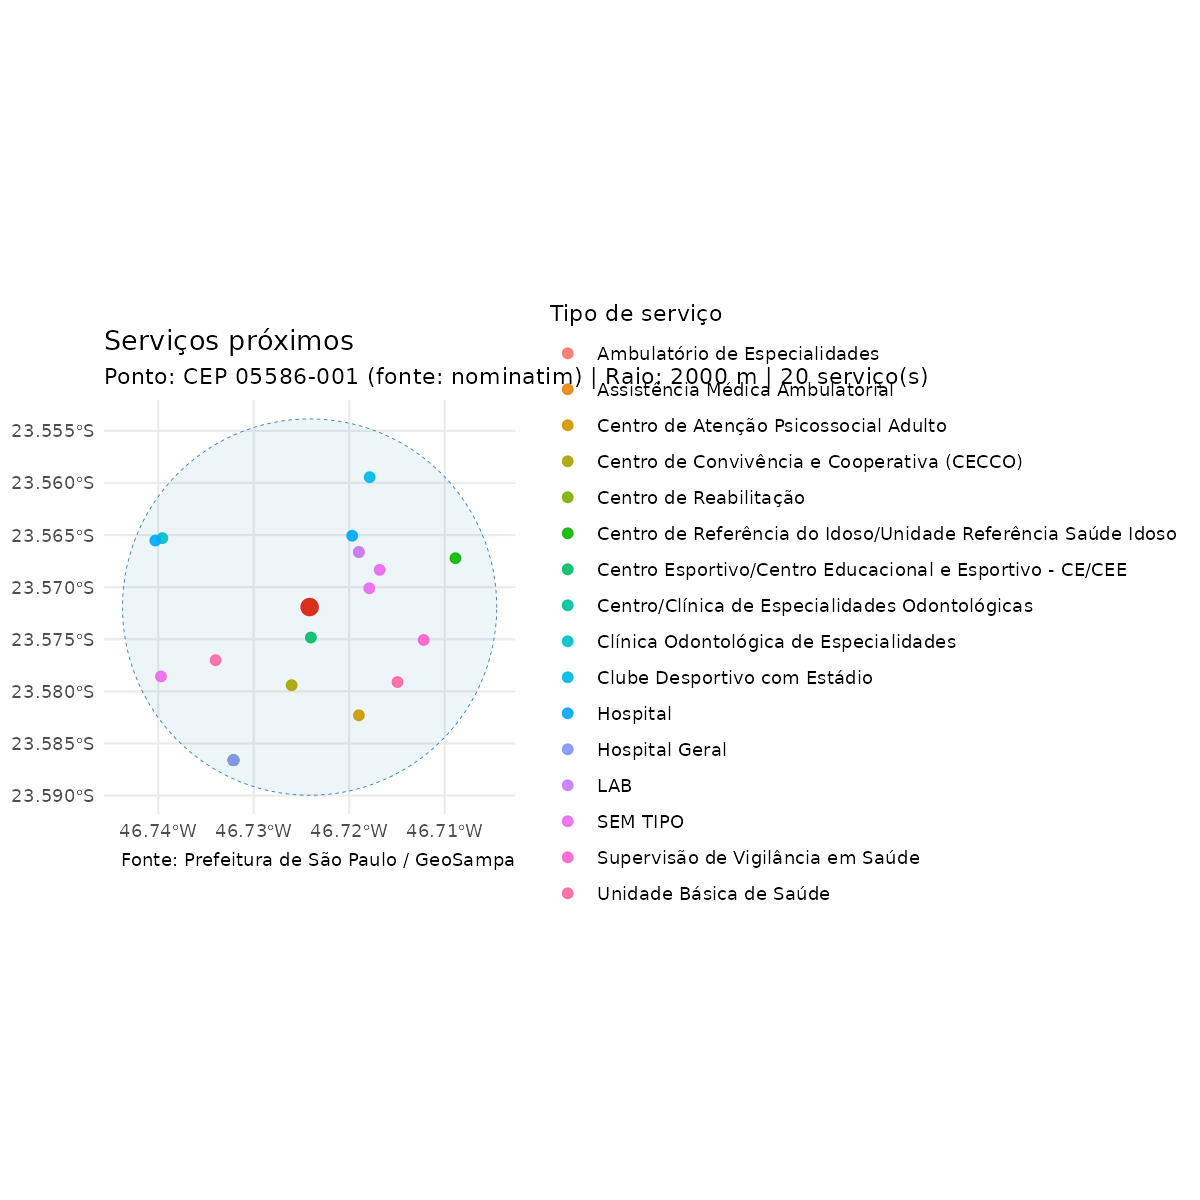
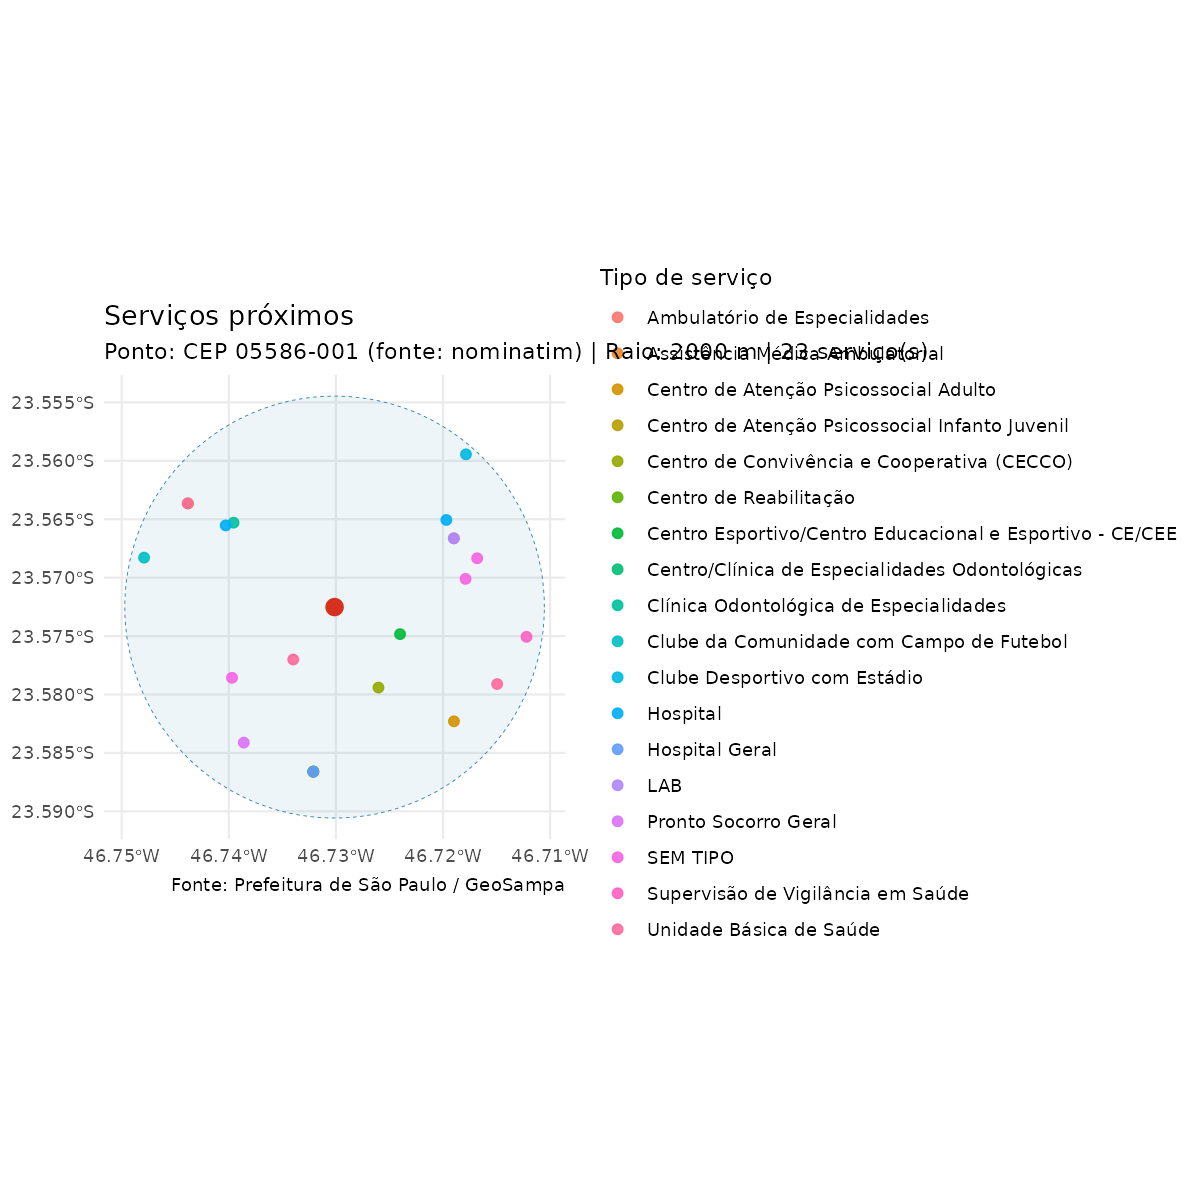
chore(geosampa): regenerar mapa de exemplo do CEP 05586001

diff --git a/R/geosampa/mapas/cep_05586001.html b/R/geosampa/mapas/cep_05586001.html
@@ -4071,9 +4071,9 @@ function asArray(value) {
 </head>
 <body style="background-color: white;">
 <div id="htmlwidget_container">
-  <div class="leaflet html-widget html-fill-item" id="htmlwidget-3da7fdd1f20a09d2bc69" style="width:100%;height:400px;"></div>
+  <div class="leaflet html-widget html-fill-item" id="htmlwidget-841b6dee16171f6e514d" style="width:100%;height:400px;"></div>
 </div>
-<script type="application/json" data-for="htmlwidget-3da7fdd1f20a09d2bc69">{"x":{"options":{"crs":{"crsClass":"L.CRS.EPSG3857","code":null,"proj4def":null,"projectedBounds":null,"options":{}}},"calls":[{"method":"addTiles","args":["https://{s}.tile.openstreetmap.org/{z}/{x}/{y}.png",null,null,{"minZoom":0,"maxZoom":18,"tileSize":256,"subdomains":"abc","errorTileUrl":"","tms":false,"noWrap":false,"zoomOffset":0,"zoomReverse":false,"opacity":1,"zIndex":1,"detectRetina":false,"attribution":"&copy; <a href=\"https://openstreetmap.org/copyright/\">OpenStreetMap<\/a>,  <a href=\"https://opendatacommons.org/licenses/odbl/\">ODbL<\/a>"}]},{"method":"addCircles","args":[-23.5719106,-46.7241413,2000,null,null,{"interactive":true,"className":"","stroke":true,"color":"#2c7fb8","weight":1,"opacity":0.6,"fill":true,"fillColor":"#2c7fb8","fillOpacity":0.08,"dashArray":"4 4"},null,null,null,{"interactive":false,"permanent":false,"direction":"auto","opacity":1,"offset":[0,0],"textsize":"10px","textOnly":false,"className":"","sticky":true},null,null]},{"method":"addCircleMarkers","args":[-23.5719106,-46.7241413,8,null,null,{"interactive":true,"className":"","stroke":true,"color":"#d7301f","weight":5,"opacity":0.5,"fill":true,"fillColor":"#d7301f","fillOpacity":0.9},null,null,"<b>Ponto de interesse<\/b><br>CEP 05586-001 (fonte: nominatim)",null,null,{"interactive":false,"permanent":false,"direction":"auto","opacity":1,"offset":[0,0],"textsize":"10px","textOnly":false,"className":"","sticky":true},null]},{"method":"addCircleMarkers","args":[[-23.5666329321213,-23.56722099583262,-23.56529499932454,-23.58659999899738,-23.58659999899738,-23.58659999899738,-23.56506199561935,-23.56552799921556,-23.58659999899738,-23.5666329321213,-23.57856990581364,-23.57010599870335,-23.5794069959869,-23.58229499925726,-23.56833900389085,-23.57700399848673,-23.57910499867152,-23.57506500394039,-23.57483226719375,-23.55944580967952],[-46.7189913849091,-46.70887300089504,-46.73955900087741,-46.73211199717158,-46.73211199717158,-46.73211199717158,-46.71968800136815,-46.74029300294579,-46.73211199717158,-46.7189913849091,-46.73970279107262,-46.71789399626643,-46.72602599797511,-46.71898100013409,-46.71680900472708,-46.73398899924604,-46.71494400461886,-46.71220300098749,-46.72401208992395,-46.71785602686937],5,null,null,{"interactive":true,"className":"","stroke":true,"color":["#ED90A4","#8BB860","#00C1B2","#E69786","#28C196","#ABB150","#48B8DE","#48B8DE","#80AEEA","#ACA2EC","#CC97E5","#CC97E5","#C4A955","#D8A06A","#CC97E5","#EC8DBF","#EC8DBF","#E190D6","#62BE79","#00BECB"],"weight":5,"opacity":0.5,"fill":true,"fillColor":["#ED90A4","#8BB860","#00C1B2","#E69786","#28C196","#ABB150","#48B8DE","#48B8DE","#80AEEA","#ACA2EC","#CC97E5","#CC97E5","#C4A955","#D8A06A","#CC97E5","#EC8DBF","#EC8DBF","#E190D6","#62BE79","#00BECB"],"fillOpacity":0.8},null,null,["<b>AMBULATORIO MEDICO DO INSTITUTO BUTANTAN<\/b><br>Tipo: Ambulatório de Especialidades<br>Endereço: AV. VITAL BRASIL, 1500<br>Bairro: BUTANTÃ<br>Distância: 787 m<br>Camada: equipamento_saude_ambulatorios_especializados","<b>URSI BUTANTÃ<\/b><br>Tipo: Centro de Referência do Idoso/Unidade Referência Saúde Idoso<br>Endereço: AV. AFRANIO PEIXOTO, 424<br>Bairro: BUTANTA<br>Distância: 1641 m<br>Camada: equipamento_saude_ambulatorios_especializados","<b>FACULDADE DE ODONTOLOGIA - USP (CLINICA ODONTOLÓGICA)<\/b><br>Tipo: Clínica Odontológica de Especialidades<br>Endereço: AV. PROF. LINEU PRESTES, 2227<br>Bairro: CIDUNIVERSITARIA<br>Distância: 1735 m<br>Camada: equipamento_saude_ambulatorios_especializados","<b>AMA 12H JARDIM PERI PERI<\/b><br>Tipo: Assistência Médica Ambulatorial<br>Endereço: R. JOÃO GUERRA, 247<br>Bairro: JD PERI PERI<br>Distância: 1824 m<br>Camada: equipamento_saude_ambulatorios_especializados","<b>CEO II BUTANTÃ<\/b><br>Tipo: Centro/Clínica de Especialidades Odontológicas<br>Endereço: R. JOÃO GUERRA, 247<br>Bairro: JD PERI PERI<br>Distância: 1824 m<br>Camada: equipamento_saude_ambulatorios_especializados","<b>CER II BUTANTÃ<\/b><br>Tipo: Centro de Reabilitação<br>Endereço: R. JOÃO GUERRA, 247<br>Bairro: JARDIM PERI<br>Distância: 1824 m<br>Camada: equipamento_saude_ambulatorios_especializados","<b>HOSPITAL ESTADUAL VITAL BRAZIL<\/b><br>Tipo: Hospital<br>Endereço: AV. VITAL BRAZIL, 1500<br>Bairro: BUTANTA<br>Distância: 886 m<br>Camada: equipamento_saude_hospital","<b>HOSPITAL UNIVERSITARIO - HU/USP<\/b><br>Tipo: Hospital<br>Endereço: AV. PROF. LINEU PRESTES, 2565<br>Bairro: BUTANTA<br>Distância: 1793 m<br>Camada: equipamento_saude_hospital","<b>HOSPITAL DIA - BUTANTÃ<\/b><br>Tipo: Hospital Geral<br>Endereço: R. JOÃO GUERRA, 247<br>Bairro: JD PERI PERI<br>Distância: 1824 m<br>Camada: equipamento_saude_hospital","<b>LABORATORIO DE ANALISES CLINICAS DO INSTITUTO BUTANTAN<\/b><br>Tipo: LAB<br>Endereço: AV. DR VITAL BRASIL, 1500<br>Bairro: BUTANTA<br>Distância: 787 m<br>Camada: equipamento_saude_outros","<b>SUPERVISÃO TECNICA DE SAÚDE - BUTANTÃ<\/b><br>Tipo: SEM TIPO<br>Endereço: AV. COMENDADOR ALBERTO BONFIGLIOLI, 658<br>Bairro: JARDIM BONFIGLIOLI<br>Distância: 1750 m<br>Camada: equipamento_saude_outros","<b>PONTO DE ECONOMIA SOLIDARIA E CULTURA DO BUTANTA<\/b><br>Tipo: SEM TIPO<br>Endereço: AV. CORIFEU DE AZEVEDO MARQUES, 250<br>Bairro: BUTANTÃ<br>Distância: 668 m<br>Camada: equipamento_saude_saude_mental","<b>CECCO PREVIDÊNCIA<\/b><br>Tipo: Centro de Convivência e Cooperativa (CECCO)<br>Endereço: R. PEDRO PECCININI, 88<br>Bairro: JD PREVIDÊNCIA<br>Distância: 855 m<br>Camada: equipamento_saude_saude_mental","<b>CAPS ADULTO II BUTANTA<\/b><br>Tipo: Centro de Atenção Psicossocial Adulto<br>Endereço: R. OSCAR PINHEIRO COELHO, 287<br>Bairro: CAXINGUI<br>Distância: 1269 m<br>Camada: equipamento_saude_saude_mental","<b>CS ESCOLA SAMUEL BARNSLEY PESSOA<\/b><br>Tipo: SEM TIPO<br>Endereço: AV. VITAL BRASIL, 1490<br>Bairro: BUTANTA<br>Distância: 846 m<br>Camada: equipamento_saude_ubs_posto_centro","<b>UBS BUTANTÃ<\/b><br>Tipo: Unidade Básica de Saúde<br>Endereço: R. CABRAL DE MENEZES, 51<br>Bairro: VL GOMES<br>Distância: 1152 m<br>Camada: equipamento_saude_ubs_posto_centro","<b>UBS CAXINGUI - NANCI ABRANCHES<\/b><br>Tipo: Unidade Básica de Saúde<br>Endereço: R. LADISLAU ROMAN, 410<br>Bairro: CAXINGUI<br>Distância: 1232 m<br>Camada: equipamento_saude_ubs_posto_centro","<b>UVIS BUTANTÃ<\/b><br>Tipo: Supervisão de Vigilância em Saúde<br>Endereço: AV. CAXINGUI, 658<br>Bairro: BUTANTÃ<br>Distância: 1266 m<br>Camada: equipamento_saude_vigilancia_saude","<b>CENTRO ESPORTIVO BUTANTÃ - CEE SOLANGE NUNES BIBAS<\/b><br>Tipo: Centro Esportivo/Centro Educacional e Esportivo - CE/CEE<br>Endereço: RUA DR ERNANI DA GAMA CORREA, 367<br>Bairro: NA<br>Distância: 325 m<br>Camada: equipamento_esporte_centro_esportivo","<b>ESTÁDIO ARMANDO DE SALLES OLIVEIRA \r\n(ESTÁDIO CEPE/USP)<\/b><br>Tipo: Clube Desportivo com Estádio<br>Endereço: R PROF RUBIAO MEIRA, 61<br>Bairro: NA<br>Distância: 1527 m<br>Camada: equipamento_esporte_estadios"],null,null,{"interactive":false,"permanent":false,"direction":"auto","opacity":1,"offset":[0,0],"textsize":"10px","textOnly":false,"className":"","sticky":true},null]},{"method":"addLegend","args":[{"colors":["#ED90A4","#E69786","#D8A06A","#C4A955","#ABB150","#8BB860","#62BE79","#28C196","#00C1B2","#00BECB","#48B8DE","#80AEEA","#ACA2EC","#CC97E5","#E190D6","#EC8DBF"],"labels":["Ambulatório de Especialidades","Assistência Médica Ambulatorial","Centro de Atenção Psicossocial Adulto","Centro de Convivência e Cooperativa (CECCO)","Centro de Reabilitação","Centro de Referência do Idoso/Unidade Referência Saúde Idoso","Centro Esportivo/Centro Educacional e Esportivo - CE/CEE","Centro/Clínica de Especialidades Odontológicas","Clínica Odontológica de Especialidades","Clube Desportivo com Estádio","Hospital","Hospital Geral","LAB","SEM TIPO","Supervisão de Vigilância em Saúde","Unidade Básica de Saúde"],"na_color":null,"na_label":"NA","opacity":1,"position":"bottomright","type":"factor","title":"Tipo de serviço","extra":null,"layerId":null,"className":"info legend","group":null}]}],"limits":{"lat":[-23.58659999899738,-23.55944580967952],"lng":[-46.74029300294579,-46.70887300089504]}},"evals":[],"jsHooks":[]}</script>
-<script type="application/htmlwidget-sizing" data-for="htmlwidget-3da7fdd1f20a09d2bc69">{"viewer":{"width":"100%","height":400,"padding":0,"fill":true},"browser":{"width":"100%","height":400,"padding":0,"fill":true}}</script>
+<script type="application/json" data-for="htmlwidget-841b6dee16171f6e514d">{"x":{"options":{"crs":{"crsClass":"L.CRS.EPSG3857","code":null,"proj4def":null,"projectedBounds":null,"options":{}}},"calls":[{"method":"addTiles","args":["https://{s}.tile.openstreetmap.org/{z}/{x}/{y}.png",null,null,{"minZoom":0,"maxZoom":18,"tileSize":256,"subdomains":"abc","errorTileUrl":"","tms":false,"noWrap":false,"zoomOffset":0,"zoomReverse":false,"opacity":1,"zIndex":1,"detectRetina":false,"attribution":"&copy; <a href=\"https://openstreetmap.org/copyright/\">OpenStreetMap<\/a>,  <a href=\"https://opendatacommons.org/licenses/odbl/\">ODbL<\/a>"}]},{"method":"addCircles","args":[-23.572517,-46.7301259,2000,null,null,{"interactive":true,"className":"","stroke":true,"color":"#2c7fb8","weight":1,"opacity":0.6,"fill":true,"fillColor":"#2c7fb8","fillOpacity":0.08,"dashArray":"4 4"},null,null,null,{"interactive":false,"permanent":false,"direction":"auto","opacity":1,"offset":[0,0],"textsize":"10px","textOnly":false,"className":"","sticky":true},null,null]},{"method":"addCircleMarkers","args":[-23.572517,-46.7301259,8,null,null,{"interactive":true,"className":"","stroke":true,"color":"#d7301f","weight":5,"opacity":0.5,"fill":true,"fillColor":"#d7301f","fillOpacity":0.9},null,null,"<b>Ponto de interesse<\/b><br>CEP 05586-001 (fonte: nominatim)",null,null,{"interactive":false,"permanent":false,"direction":"auto","opacity":1,"offset":[0,0],"textsize":"10px","textOnly":false,"className":"","sticky":true},null]},{"method":"addCircleMarkers","args":[[-23.57700399848673,-23.57483226719375,-23.5794069959869,-23.57856990581364,-23.56529499932454,-23.57010599870335,-23.56552799921556,-23.5666329321213,-23.5666329321213,-23.56506199561935,-23.56833900389085,-23.58411800364225,-23.58229499925726,-23.58659999899738,-23.58659999899738,-23.58659999899738,-23.58659999899738,-23.56364600085092,-23.5636430033909,-23.57910499867152,-23.57506500394039,-23.56828905989349,-23.55944580967952],[-46.73398899924604,-46.72401208992395,-46.72602599797511,-46.73970279107262,-46.73955900087741,-46.71789399626643,-46.74029300294579,-46.7189913849091,-46.7189913849091,-46.71968800136815,-46.71680900472708,-46.73860200172611,-46.71898100013409,-46.73211199717158,-46.73211199717158,-46.73211199717158,-46.73211199717158,-46.74380699648809,-46.74384800175548,-46.71494400461886,-46.71220300098749,-46.74791398659753,-46.71785602686937],5,null,null,{"interactive":true,"className":"","stroke":true,"color":["#EC8EBC","#7EBA68","#B7AE50","#D494E1","#1DC199","#D494E1","#38B9DA","#ED90A4","#9AA8EC","#38B9DA","#D494E1","#BB9DEA","#DC9E70","#E79689","#58BF80","#9DB555","#6FB1E7","#CCA65A","#EC8EBC","#EC8EBC","#E48FD1","#00C1B2","#00BFC8"],"weight":5,"opacity":0.5,"fill":true,"fillColor":["#EC8EBC","#7EBA68","#B7AE50","#D494E1","#1DC199","#D494E1","#38B9DA","#ED90A4","#9AA8EC","#38B9DA","#D494E1","#BB9DEA","#DC9E70","#E79689","#58BF80","#9DB555","#6FB1E7","#CCA65A","#EC8EBC","#EC8EBC","#E48FD1","#00C1B2","#00BFC8"],"fillOpacity":0.8},null,null,["<b>UBS BUTANTÃ<\/b><br>Tipo: Unidade Básica de Saúde<br>Endereço: R. CABRAL DE MENEZES, 51<br>Bairro: VL GOMES<br>Distância: 636 m<br>Camada: equipamento_saude_ubs_posto_centro","<b>CENTRO ESPORTIVO BUTANTÃ - CEE SOLANGE NUNES BIBAS<\/b><br>Tipo: Centro Esportivo/Centro Educacional e Esportivo - CE/CEE<br>Endereço: RUA DR ERNANI DA GAMA CORREA, 367<br>Bairro: NA<br>Distância: 674 m<br>Camada: equipamento_esporte_centro_esportivo","<b>CECCO PREVIDÊNCIA<\/b><br>Tipo: Centro de Convivência e Cooperativa (CECCO)<br>Endereço: R. PEDRO PECCININI, 88<br>Bairro: JD PREVIDÊNCIA<br>Distância: 873 m<br>Camada: equipamento_saude_saude_mental","<b>SUPERVISÃO TECNICA DE SAÚDE - BUTANTÃ<\/b><br>Tipo: SEM TIPO<br>Endereço: AV. COMENDADOR ALBERTO BONFIGLIOLI, 658<br>Bairro: JARDIM BONFIGLIOLI<br>Distância: 1186 m<br>Camada: equipamento_saude_outros","<b>FACULDADE DE ODONTOLOGIA - USP (CLINICA ODONTOLÓGICA)<\/b><br>Tipo: Clínica Odontológica de Especialidades<br>Endereço: AV. PROF. LINEU PRESTES, 2227<br>Bairro: CIDUNIVERSITARIA<br>Distância: 1253 m<br>Camada: equipamento_saude_ambulatorios_especializados","<b>PONTO DE ECONOMIA SOLIDARIA E CULTURA DO BUTANTA<\/b><br>Tipo: SEM TIPO<br>Endereço: AV. CORIFEU DE AZEVEDO MARQUES, 250<br>Bairro: BUTANTÃ<br>Distância: 1275 m<br>Camada: equipamento_saude_saude_mental","<b>HOSPITAL UNIVERSITARIO - HU/USP<\/b><br>Tipo: Hospital<br>Endereço: AV. PROF. LINEU PRESTES, 2565<br>Bairro: BUTANTA<br>Distância: 1295 m<br>Camada: equipamento_saude_hospital","<b>AMBULATORIO MEDICO DO INSTITUTO BUTANTAN<\/b><br>Tipo: Ambulatório de Especialidades<br>Endereço: AV. VITAL BRASIL, 1500<br>Bairro: BUTANTÃ<br>Distância: 1310 m<br>Camada: equipamento_saude_ambulatorios_especializados","<b>LABORATORIO DE ANALISES CLINICAS DO INSTITUTO BUTANTAN<\/b><br>Tipo: LAB<br>Endereço: AV. DR VITAL BRASIL, 1500<br>Bairro: BUTANTA<br>Distância: 1310 m<br>Camada: equipamento_saude_outros","<b>HOSPITAL ESTADUAL VITAL BRAZIL<\/b><br>Tipo: Hospital<br>Endereço: AV. VITAL BRAZIL, 1500<br>Bairro: BUTANTA<br>Distância: 1349 m<br>Camada: equipamento_saude_hospital","<b>CS ESCOLA SAMUEL BARNSLEY PESSOA<\/b><br>Tipo: SEM TIPO<br>Endereço: AV. VITAL BRASIL, 1490<br>Bairro: BUTANTA<br>Distância: 1434 m<br>Camada: equipamento_saude_ubs_posto_centro","<b>PS MUNICIPAL DR CAETANO VIRGÍLIO NETTO<\/b><br>Tipo: Pronto Socorro Geral<br>Endereço: R. AUGUSTO FARINHA, 1125<br>Bairro: JD PINHEIROS<br>Distância: 1552 m<br>Camada: equipamento_saude_urgencia_emergencia","<b>CAPS ADULTO II BUTANTA<\/b><br>Tipo: Centro de Atenção Psicossocial Adulto<br>Endereço: R. OSCAR PINHEIRO COELHO, 287<br>Bairro: CAXINGUI<br>Distância: 1572 m<br>Camada: equipamento_saude_saude_mental","<b>AMA 12H JARDIM PERI PERI<\/b><br>Tipo: Assistência Médica Ambulatorial<br>Endereço: R. JOÃO GUERRA, 247<br>Bairro: JD PERI PERI<br>Distância: 1579 m<br>Camada: equipamento_saude_ambulatorios_especializados","<b>CEO II BUTANTÃ<\/b><br>Tipo: Centro/Clínica de Especialidades Odontológicas<br>Endereço: R. JOÃO GUERRA, 247<br>Bairro: JD PERI PERI<br>Distância: 1579 m<br>Camada: equipamento_saude_ambulatorios_especializados","<b>CER II BUTANTÃ<\/b><br>Tipo: Centro de Reabilitação<br>Endereço: R. JOÃO GUERRA, 247<br>Bairro: JARDIM PERI<br>Distância: 1579 m<br>Camada: equipamento_saude_ambulatorios_especializados","<b>HOSPITAL DIA - BUTANTÃ<\/b><br>Tipo: Hospital Geral<br>Endereço: R. JOÃO GUERRA, 247<br>Bairro: JD PERI PERI<br>Distância: 1579 m<br>Camada: equipamento_saude_hospital","<b>CAPS INFANTOJUVENIL II BUTANTÃ<\/b><br>Tipo: Centro de Atenção Psicossocial Infanto Juvenil<br>Endereço: R. BALTAZAR RABELO, 167<br>Bairro: VILA BUTANTA<br>Distância: 1708 m<br>Camada: equipamento_saude_saude_mental","<b>UBS SÃO REMO<\/b><br>Tipo: Unidade Básica de Saúde<br>Endereço: R. BALTAZAR RABELO, 167<br>Bairro: RIO PEQUENO<br>Distância: 1712 m<br>Camada: equipamento_saude_ubs_posto_centro","<b>UBS CAXINGUI - NANCI ABRANCHES<\/b><br>Tipo: Unidade Básica de Saúde<br>Endereço: R. LADISLAU ROMAN, 410<br>Bairro: CAXINGUI<br>Distância: 1712 m<br>Camada: equipamento_saude_ubs_posto_centro","<b>UVIS BUTANTÃ<\/b><br>Tipo: Supervisão de Vigilância em Saúde<br>Endereço: AV. CAXINGUI, 658<br>Bairro: BUTANTÃ<br>Distância: 1848 m<br>Camada: equipamento_saude_vigilancia_saude","<b>CORNELIO RODRIGUES DE ALMEIDA<\/b><br>Tipo: Clube da Comunidade com Campo de Futebol<br>Endereço: R PROF ANTONIO FILGUEIRAS DE LIMA, 358<br>Bairro: NA<br>Distância: 1873 m<br>Camada: equipamento_esporte_clubesdacomunidade","<b>ESTÁDIO ARMANDO DE SALLES OLIVEIRA \r\n(ESTÁDIO CEPE/USP)<\/b><br>Tipo: Clube Desportivo com Estádio<br>Endereço: R PROF RUBIAO MEIRA, 61<br>Bairro: NA<br>Distância: 1917 m<br>Camada: equipamento_esporte_estadios"],null,null,{"interactive":false,"permanent":false,"direction":"auto","opacity":1,"offset":[0,0],"textsize":"10px","textOnly":false,"className":"","sticky":true},null]},{"method":"addLegend","args":[{"colors":["#ED90A4","#E79689","#DC9E70","#CCA65A","#B7AE50","#9DB555","#7EBA68","#58BF80","#1DC199","#00C1B2","#00BFC8","#38B9DA","#6FB1E7","#9AA8EC","#BB9DEA","#D494E1","#E48FD1","#EC8EBC"],"labels":["Ambulatório de Especialidades","Assistência Médica Ambulatorial","Centro de Atenção Psicossocial Adulto","Centro de Atenção Psicossocial Infanto Juvenil","Centro de Convivência e Cooperativa (CECCO)","Centro de Reabilitação","Centro Esportivo/Centro Educacional e Esportivo - CE/CEE","Centro/Clínica de Especialidades Odontológicas","Clínica Odontológica de Especialidades","Clube da Comunidade com Campo de Futebol","Clube Desportivo com Estádio","Hospital","Hospital Geral","LAB","Pronto Socorro Geral","SEM TIPO","Supervisão de Vigilância em Saúde","Unidade Básica de Saúde"],"na_color":null,"na_label":"NA","opacity":1,"position":"bottomright","type":"factor","title":"Tipo de serviço","extra":null,"layerId":null,"className":"info legend","group":null}]}],"limits":{"lat":[-23.58659999899738,-23.55944580967952],"lng":[-46.74791398659753,-46.71220300098749]}},"evals":[],"jsHooks":[]}</script>
+<script type="application/htmlwidget-sizing" data-for="htmlwidget-841b6dee16171f6e514d">{"viewer":{"width":"100%","height":400,"padding":0,"fill":true},"browser":{"width":"100%","height":400,"padding":0,"fill":true}}</script>
 </body>
 </html>
